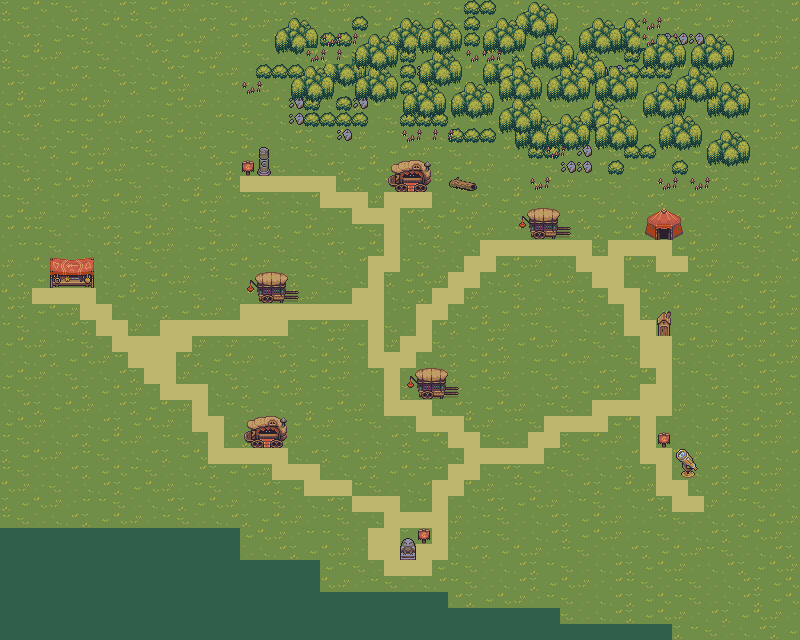
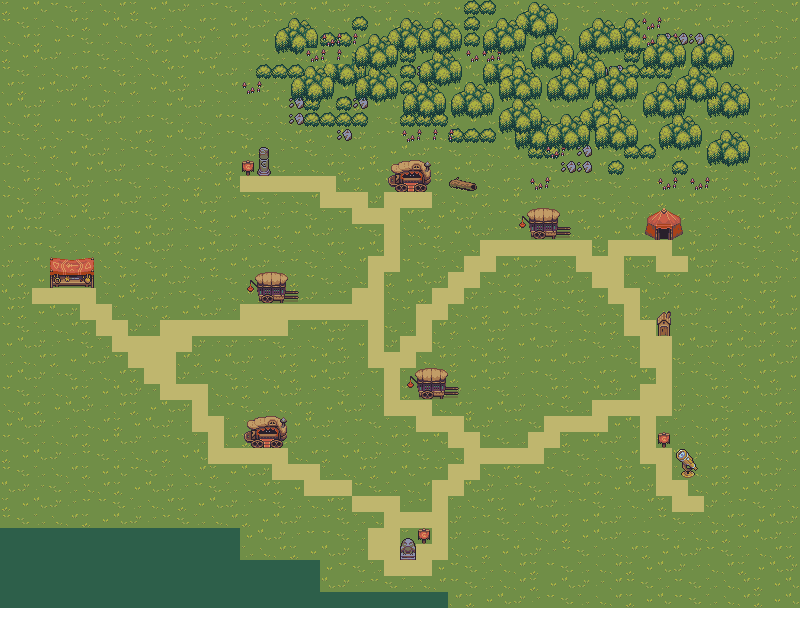
new map
added a new room / map. so you can now go into a house.
removed and added also some other things.

Changed region(s): [[0.0, 0.9375, 1.0, 1.0]]

diff --git a/js/main.js b/js/main.js
@@ -21,7 +21,10 @@ const offsetCharacter = 32;
 
 // Items
 const door1 = document.getElementById("door1");
+const door2 = document.getElementById("door2");
 const sign1 = document.getElementById("sign1");
+const houseInside1 = document.getElementById("insideHouse1");
+const map1 = document.getElementById("map1");
 
 //Inventory
 const inventoryBox = document.getElementById("inventoryBox");
@@ -31,7 +34,7 @@ gameWindow.onclick = function (e) {
     var rect = gameWindow.getBoundingClientRect();
     var xPosition = e.clientX - rect.left;
     var yPosition = e.clientY - rect.top;
-    if (e.target.id !== "mcImage" && state.inCutscene === false) {
+    if (e.target.id !== "mcImage" && e.target.id !== "gameWindow" && state.inCutscene === false) {
         mainCharacter.style.left = xPosition - offsetCharacter + "px";
         mainCharacter.style.top = yPosition - offsetCharacter + "px";
 
@@ -45,14 +48,23 @@ gameWindow.onclick = function (e) {
                         setTimeout(showMessage, 0, "mainCharacterSpeech", "The door is now unlocked jeej!");
                         setTimeout(function () { state.inCutscene = false; }, 3000)
                         revealEverything();
+                        houseInside1.style.opacity = 0;
+                        map1.style.opacity = 1;
                         door1.style.opacity = 0;
                     } else {
-                        alert("Door is locked!");
+                        setTimeout(function () { state.inCutscene = true; }, 0)
+                        setTimeout(showMessage, 0, "mainCharacterSpeech", "The door is locked.");
+                        setTimeout(function () { state.inCutscene = false; }, 3000)
+                        houseInside1.style.opacity = 0;
+                        map1.style.opacity = 1;
                     }
                 } else {
-                    console.log('enter building');
-                    revealEverything();
-                    door1.style.opacity = 0;
+                    hideEverything();
+                    houseInside1.style.opacity = 1;
+                    map1.style.opacity = 0;
+                    door2.style.opcacity = 1;
+                    mainCharacter.style.left = "408px";
+                    mainCharacter.style.top = "165px";
                 }
             case "sign1":
                 revealEverything();
@@ -74,25 +86,33 @@ gameWindow.onclick = function (e) {
                     setTimeout(function () { state.inCutscene = true; }, 0)
                     setTimeout(function () { state.talkedWithStatue = true; }, 0)
                     statue1.style.opacity = 0;
-                    setTimeout(function () { counterAvatar.style.opacity = 1; }, 2000)
+                    setTimeout(function () { counterAvatarStatue.style.opacity = 1; }, 2000)
                     setTimeout(showMessage, 0, "mainCharacterSpeech", "Oh wow what a nice statue");
-                    setTimeout(showMessage, 3000, "counterSpeech", "Hello player");
-                    setTimeout(showMessage, 6000, "counterSpeech", "Is there something you want to ask?");
+                    setTimeout(showMessage, 3000, "counterSpeechStatue", "Hello player");
+                    setTimeout(showMessage, 6000, "counterSpeechStatue", "Is there something you want to ask?");
                     setTimeout(showMessage, 9000, "mainCharacterSpeech", "Wait you can talk!?");
-                    setTimeout(showMessage, 12000, "counterSpeech", "Yes my dear friend");
-                    setTimeout(showMessage, 15000, "counterSpeech", "So do you have a question for me?");
-                    setTimeout(showMessage, 19000, "mainCharacterSpeech", "Yes do you know how I can go into that house over there?");
-                    setTimeout(showMessage, 22000, "counterSpeech", "Hmm...");
-                    setTimeout(showMessage, 27000, "counterSpeech", "I think there was a person that hide a key by that old well");
+                    setTimeout(showMessage, 12000, "counterSpeechStatue", "Yes my dear friend");
+                    setTimeout(showMessage, 15000, "counterSpeechStatue", "So do you have a question for me?");
+                    setTimeout(showMessage, 19000, "mainCharacterSpeech", "Yes do you know how I can get in that building at the top left of here?");
+                    setTimeout(showMessage, 22000, "counterSpeechStatue", "Hmm...");
+                    setTimeout(showMessage, 27000, "counterSpeechStatue", "I think there was a person that hide a key by that tree trunk");
                     setTimeout(showMessage, 30000, "mainCharacterSpeech", "Thank you!");
-                    setTimeout(showMessage, 33000, "counterSpeech", "No problem");
-                    setTimeout(function () { counterAvatar.style.opacity = 0; }, 36000)
+                    setTimeout(showMessage, 33000, "counterSpeechStatue", "No problem");
+                    setTimeout(function () { counterAvatarStatue.style.opacity = 0; }, 36000)
                     setTimeout(function () { state.inCutscene = false; }, 36000)
                 } else {
                     setTimeout(function () { state.inCutscene = true; }, 0)
                     setTimeout(showMessage, 0, "mainCharacterSpeech", "I already talked with the statue");
                     setTimeout(function () { state.inCutscene = false; }, 3000)
                 }
+                break;
+            case "door2":
+                revealEverything();
+                houseInside1.style.opacity = 0;
+                map1.style.opacity = 1;
+                door2.style.opcacity = 0;
+                mainCharacter.style.left = "261px";
+                mainCharacter.style.top = "439px";
                 break;
             default:
                 revealEverything();
@@ -152,6 +172,13 @@ gameWindow.onclick = function (e) {
 function revealEverything() {
     sign1.style.opacity = 1;
     door1.style.opacity = 1;
+    statue1.style.opacity = 1;
+}
+
+function hideEverything() {
+    sign1.style.opacity = 0;
+    door1.style.opacity = 0;
+    statue1.style.opacity = 0;
 }
 
 /**

diff --git a/index.html b/index.html
@@ -24,15 +24,19 @@
                 <div id="mainCharacterSpeech" class="foreground speech-bubble">...</div>
 
                 <div id="mainCharacterAvatar" class="foreground">
-                    <img src="assets/Images/Characters/animated-character-2-idle.gif" draggable="false"
-                        alt="Main character avatar" width="72px" height="68px">
+                    <img src="assets/Images/Characters/antoinette-de-boer-pixelcharacter3.png" draggable="false"
+                        alt="Main character avatar" width="60px" height="80px">
                 </div>
 
-                <div id="counterSpeech" class="foreground speech-bubble">...</div>
+                <div id="counterSpeechStatue" class="foreground speech-bubble">...</div>
 
-                <div id="counterAvatar" class="foreground">
-                    <img src="assets/Images/Characters/portairStatue.png" draggable="false" alt="Counter avatar"
-                        width="72px" height="68px">
+                <div id="counterAvatarStatue" class="foreground">
+                    <img src="assets/Images/Characters/frogstatue.png" draggable="false" alt="Counter avatar statue"
+                        width="90px" height="70px">
+                </div>
+                <div id="counterAvatarMagnifyingGlass" class="foreground">
+                    <img src="assets/Images/Characters/bigthingtolookintotoseestarsetc.png" draggable="false"
+                        alt="Counter avatar magnifying glass" width="90px" height="70px">
                 </div>
 
                 <div id="brownBar"></div>
@@ -49,19 +53,24 @@
 
         <!--Foreground items-->
         <div id="door1" class="foreground"></div>
+        <div id="door2" class="foreground"></div>
         <div id="sign1" class="foreground"></div>
         <div id="key1" class="foreground"></div>
         <div id="statue1" class="foreground"></div>
+        <div id="random" class="foreground"></div>
 
         <!-- Main Character -->
         <div id="mainCharacterId" class="mainCharacter">
-            <img id="mcImage" src="assets/Images/Characters/animated-character-1-idle.gif" draggable="false"
-                width="64px" height="64px" alt="Main Character">
+            <img id="mcImage" src="assets/Images/Characters/antoinette-de-boer-pixelcharacter3.png" draggable="false"
+                width="30px" height="45px" alt="Main Character">
         </div>
 
         <!-- Background -->
-        <div id="tilemap" class="background">
-            <img src="assets/Images/map/PointAndClickAdventure.png" draggable="false" alt="Map level 1">
+        <div id="map1" class="background">
+            <img src="assets/Images/map/PointAndClickAdventure.png" draggable="false" alt="Map 1">
+        </div>
+        <div id="insideHouse1" class="houseInside">
+            <img src="assets/Images/map/PointAndClickAdventureInside.png" draggable="false" alt="Inside house 1">
         </div>
 
     </div>

diff --git a/css/main.css b/css/main.css
@@ -28,8 +28,7 @@ p {
     height: 608px;
     grid-column-start: 2;
     grid-row-start: 2;
-
-    background-color: rgb(31, 216, 230);
+    background-color: rgb(59, 56, 56);
 }
 
 /* Inventory */
@@ -50,37 +49,50 @@ p {
 
 /* Iteractable things */
 #door1 {
-    width: 32px;
-    height: 50px;
-
+    width: 44px;
+    height: 38px;
     opacity: 1;
-    top: 302px;
-    left: 177px;
+    top: 412px;
+    left: 244px;
+}
+
+#door2 {
+    width: 34px;
+    height: 53px;
     opacity: 0;
+    top: 127px;
+    left: 400px;
 }
 
 #sign1 {
-    width: 20px;
-    height: 30px;
-    background-color: rgb(21, 255, 0);
-    top: 500px;
-    left: 600px;
+    width: 18px;
+    height: 18px;
+    opacity: 1;
+    top: 160px;
+    left: 242px;
 }
 
 #key1 {
-    width: 45px;
-    height: 36px;
+    width: 34px;
+    height: 22px;
     opacity: 1;
-    top: 109px;
-    left: 298px;
+    top: 174px;
+    left: 447px;
 }
 
 #statue1 {
-    width: 32px;
-    height: 70px;
+    width: 20px;
+    height: 38px;
     opacity: 1;
-    top: 280px;
-    left: 704px;
+    top: 524px;
+    left: 398px;
+}
+
+#insideHouse1 {
+    width: 800px;
+    height: 608px;
+    top: 0px;
+    left: 0px;
 }
 
 /* Dialog */
@@ -107,7 +119,12 @@ p {
     top: 0px;
 }
 
-#counterSpeech {
+#counterSpeechStatue {
+    right: 72px;
+    top: 0px;
+}
+
+#counterSpeechMagnifyingGlass {
     right: 72px;
     top: 0px;
 }
@@ -116,14 +133,23 @@ p {
     left: 0px;
     bottom: 0px;
     width: 72px;
-    height: 68px;
+    height: 80px;
 }
 
-#counterAvatar {
+#counterAvatarStatue {
     right: 0px;
     bottom: 0px;
-    width: 72px;
-    height: 68px;
+    width: 90px;
+    height: 70px;
+    opacity: 0;
+}
+
+#counterAvatarMagnifyingGlass {
+    right: 0px;
+    bottom: 0px;
+    width: 90px;
+    background-color: #502203;
+    height: 70px;
     opacity: 0;
 }
 
@@ -136,7 +162,7 @@ p {
 
 /* Background */
 
-#tilemap {
+#map1 {
     width: 800px;
     height: 608px;
     top: 0px;
@@ -159,6 +185,14 @@ p {
 .background {
     position: absolute;
     z-index: 0;
+    top: auto;
+    left: auto;
+}
+
+.houseInside {
+    position: absolute;
+    z-index: 0;
+    opacity: 0;
     top: auto;
     left: auto;
 }
